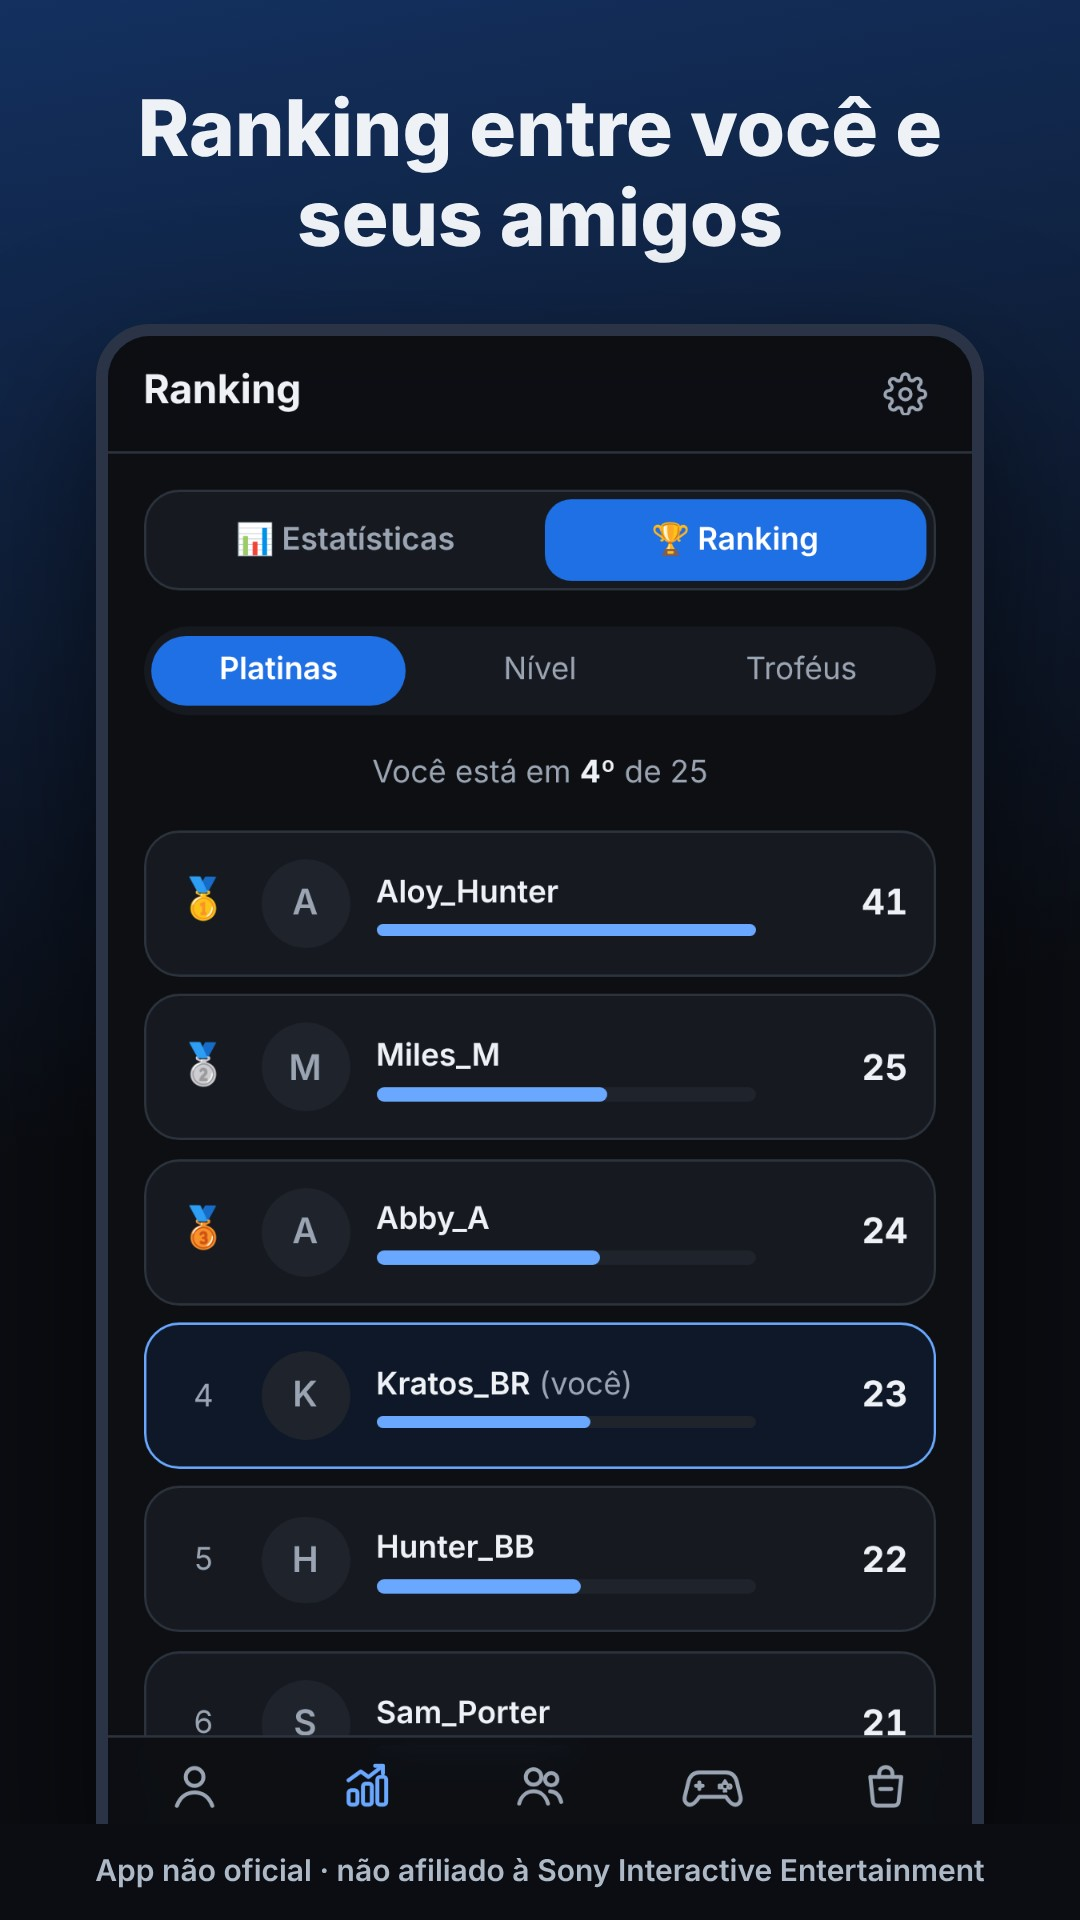
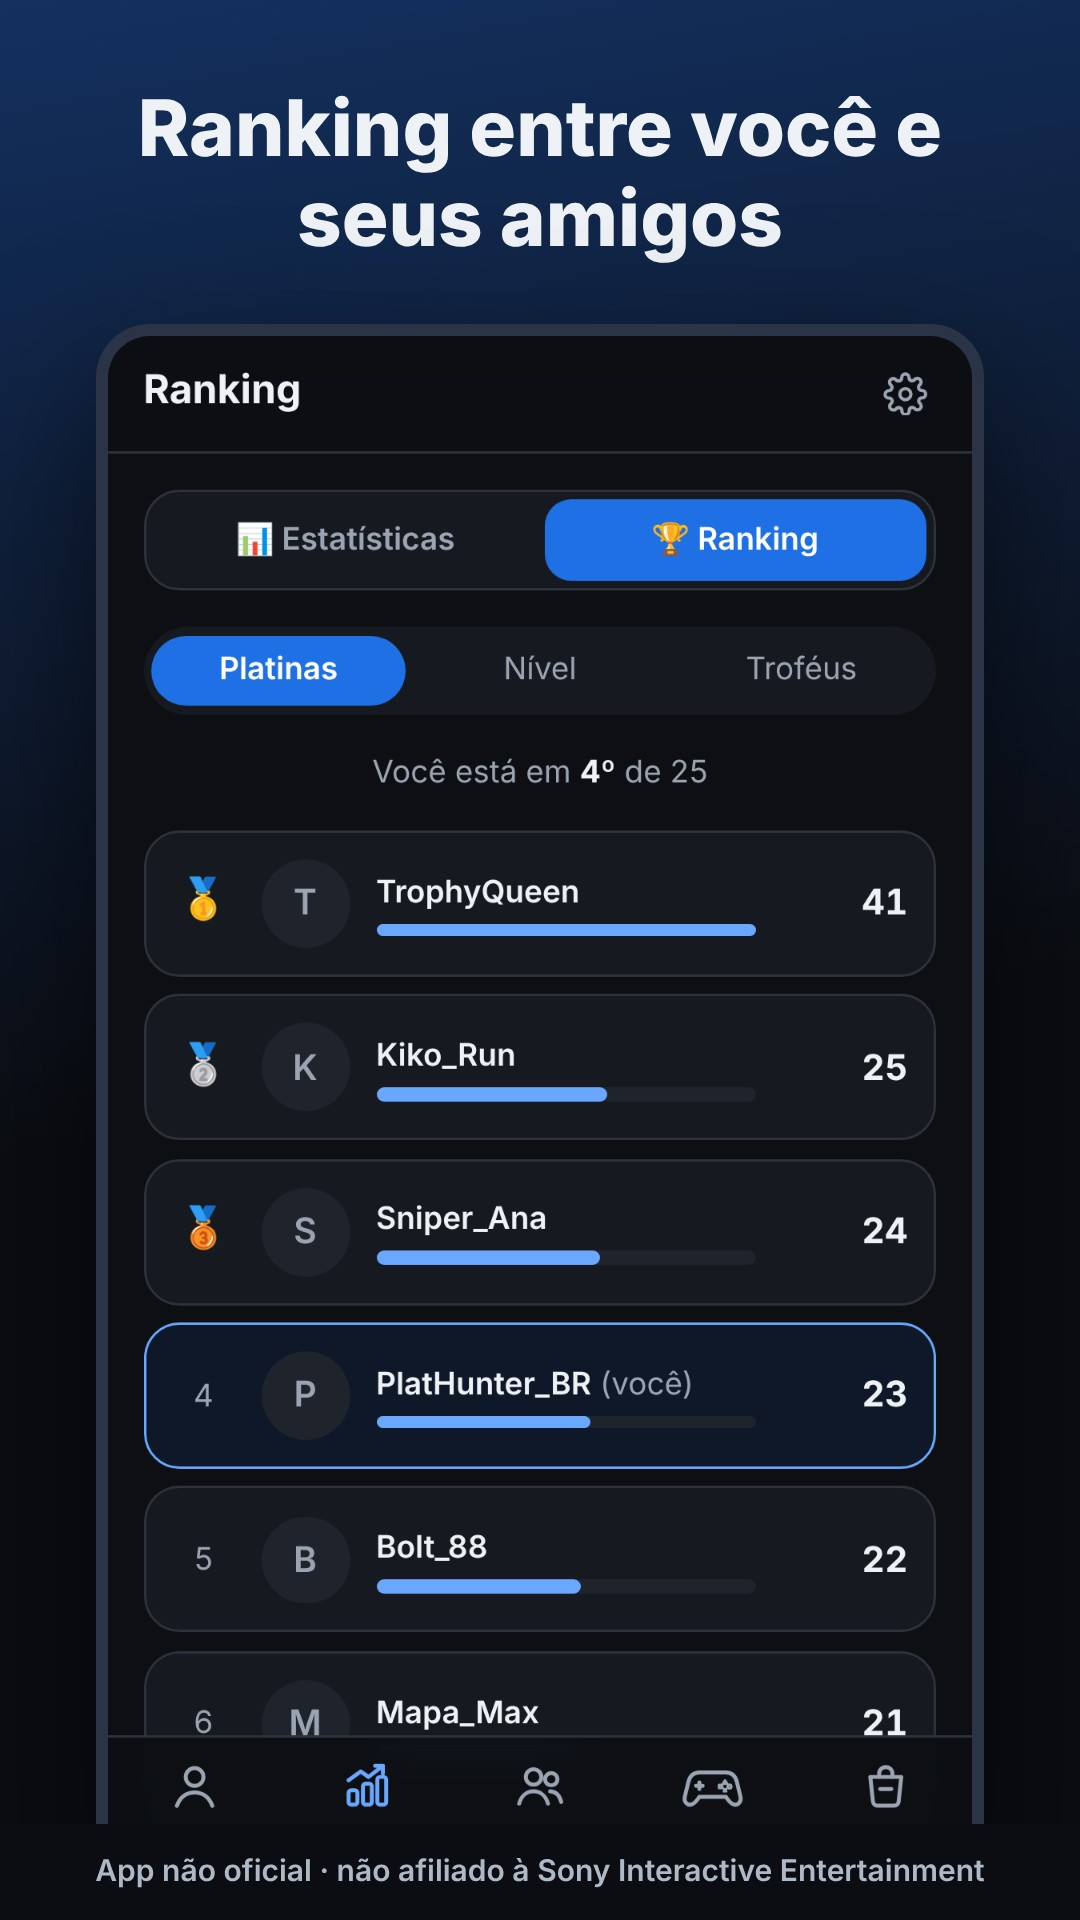
Segurança das contas e dados de demonstração sem personagens da Sony
Segurança:
- APK do GitHub em release, assinado com a chave secreta do app quando
  ANDROID_KEYSTORE_* existe (a chave de debug do repositório é pública e
  permitiria publicar uma falsa atualização com acesso ao login).
- Sem backup na nuvem nem transferência entre aparelhos dos dados do app
  (allowBackup=false e data_extraction_rules).
- Login da Sony só navega em domínios da Sony; o resto abre no navegador.
- FileProvider restrito à pasta da atualização baixada.
- Pedidos de boost mostram o nome confirmado pela PSN de quem enviou.
- Migração do Supabase: ninguém altera o próprio nome, contas sem perfil
  confirmado não veem perfis nem curtidas, limite de 30 pedidos de boost
  por hora.
- docs/seguranca.md com as proteções e os passos do dono do app.

Demonstração: nomes genéricos no lugar de personagens da Sony e capturas
da Play Store refeitas.

Claude-Session: https://claude.ai/code/session_017mpu5v6dnX2X2pzJxWtcg4

diff --git a/mobile/src/psn/demo.ts b/mobile/src/psn/demo.ts
@@ -8,16 +8,16 @@ const hoursAgo = (h: number) => new Date(Date.now() - h * 3_600_000).toISOString
 const counts = (platinum: number, gold: number, silver: number, bronze: number): Counts => ({ platinum, gold, silver, bronze });
 
 const PROFILES: Record<string, Profile> = {
-  me: { accountId: "demo-me", onlineId: "Kratos_BR", avatarUrl: "http://psn-rsc.prod.dl.playstation.net/psn-rsc/avatar/DEMO/kratos_l.png", aboutMe: "Caçador de platinas", isPlus: true, level: 412, levelProgress: 63, earned: counts(23, 180, 520, 1900) },
-  aloy: { accountId: "demo-aloy", onlineId: "Aloy_Hunter", avatarUrl: "http://psn-rsc.prod.dl.playstation.net/psn-rsc/avatar/DEMO/aloy_l.png", aboutMe: null, isPlus: true, level: 538, levelProgress: 12, earned: counts(41, 260, 700, 2500) },
-  ellie: { accountId: "demo-ellie", onlineId: "Ellie_TLOU", avatarUrl: "http://psn-rsc.prod.dl.playstation.net/psn-rsc/avatar/DEMO/ellie_l.png", aboutMe: null, isPlus: false, level: 233, levelProgress: 88, earned: counts(9, 70, 210, 800) },
+  me: { accountId: "demo-me", onlineId: "PlatHunter_BR", avatarUrl: "http://psn-rsc.prod.dl.playstation.net/psn-rsc/avatar/DEMO/player1_l.png", aboutMe: "Caçador de platinas", isPlus: true, level: 412, levelProgress: 63, earned: counts(23, 180, 520, 1900) },
+  aloy: { accountId: "demo-aloy", onlineId: "TrophyQueen", avatarUrl: "http://psn-rsc.prod.dl.playstation.net/psn-rsc/avatar/DEMO/player2_l.png", aboutMe: null, isPlus: true, level: 538, levelProgress: 12, earned: counts(41, 260, 700, 2500) },
+  ellie: { accountId: "demo-ellie", onlineId: "NightOwl_77", avatarUrl: "http://psn-rsc.prod.dl.playstation.net/psn-rsc/avatar/DEMO/player3_l.png", aboutMe: null, isPlus: false, level: 233, levelProgress: 88, earned: counts(9, 70, 210, 800) },
 };
 
 // Mais amigos de exemplo, para a lista completa (alguns com troféus privados).
 const EXTRA_NAMES = [
-  "Nathan_Drake", "Jin_Sakai", "Peter_P", "Joel_M", "Ratchet_L", "Sackboy", "Astro_Fan", "Nariko_HS",
-  "Cole_MacGrath", "Sly_Cooper", "Kat_Gravity", "Deacon_StJ", "Selene_R", "Sam_Porter", "Hunter_BB", "Abby_A",
-  "Miles_M", "Kiryu_K", "Leon_SK", "Jill_V", "Dante_DMC", "Cloud_S",
+  "Nitro_Rex", "PixelWolf", "Lobo_Gamer", "Cacador_99", "SilverFox", "Rush_BR", "Mestre_Bronze", "GoldRush",
+  "Neon_Kat", "Shadow_Fox", "Zeca_Play", "Turbo_Lu", "Vega_Star", "Mapa_Max", "Bolt_88", "Sniper_Ana",
+  "Kiko_Run", "Tank_Leo", "Raio_Jo", "Duda_GG", "Max_Combo", "Nuvem_S",
 ];
 EXTRA_NAMES.forEach((onlineId, i) => {
   const level = 50 + ((i * 37) % 600);
@@ -174,7 +174,7 @@ export function createDemoClient(): PsnClient {
     me: () => delay(PROFILES.me),
     profile: (accountId) => delay(PROFILES[keyOf(accountId)]),
     realName: (onlineId) =>
-      delay(({ Kratos_BR: "Kratos de Esparta", Aloy_Hunter: "Aloy Sobeck", Ellie_TLOU: "Ellie Williams" } as Record<string, string>)[onlineId] ?? null),
+      delay(({ PlatHunter_BR: "Rafael Lima", TrophyQueen: "Ana Souza", NightOwl_77: "Bia Costa" } as Record<string, string>)[onlineId] ?? null),
     titles: (accountId) => delay(titlesOf(keyOf(accountId))),
     recentTitles: (accountId) => delay(titlesOf(keyOf(accountId))),
     playedGames: (accountId) => delay(playedOf(keyOf(accountId))),

diff --git a/mobile/src/lib/cloud.ts b/mobile/src/lib/cloud.ts
@@ -169,6 +169,8 @@ export interface CloudBoostRequest {
   payload: Record<string, unknown>;
   status: "novo" | "aceito" | "recusado";
   created_at: string;
+  /** Nome na PSN de quem enviou, confirmado pelo servidor (não o que veio no pedido). */
+  from_online_id?: string | null;
 }
 
 /** Envia o pedido para amigos que usam o app. */
@@ -185,8 +187,14 @@ export async function sendBoostRequests(toAccountIds: string[], payload: Record<
 export async function myBoostRequests(): Promise<{ received: CloudBoostRequest[]; sent: CloudBoostRequest[] }> {
   const me = await cloudIdentity();
   if (!me) return { received: [], sent: [] };
-  const { data } = await cloud().from("boost_requests").select("*").order("created_at", { ascending: false }).limit(100);
-  const list = (data ?? []) as CloudBoostRequest[];
+  const { data } = await cloud()
+    .from("boost_requests")
+    .select("*, sender:profiles!boost_requests_from_account_id_fkey(online_id)")
+    .order("created_at", { ascending: false })
+    .limit(100);
+  const list = ((data ?? []) as (CloudBoostRequest & { sender?: { online_id: string } | null })[]).map(
+    ({ sender, ...r }) => ({ ...r, from_online_id: sender?.online_id ?? null }),
+  );
   return {
     received: list.filter((r) => r.to_account_id === me.accountId),
     sent: list.filter((r) => r.from_account_id === me.accountId),

diff --git a/mobile/src/lib/boostInbox.ts b/mobile/src/lib/boostInbox.ts
@@ -155,7 +155,9 @@ export async function syncCloudInbox(now = new Date()): Promise<ReceivedBoost[]>
     added.push({
       id: `cloud:${r.id}`,
       cloudId: r.id,
-      from: String(p.from ?? ""),
+      // O nome vem do perfil confirmado pela PSN, não do texto do pedido (que
+      // quem envia poderia trocar para se passar por um amigo).
+      from: r.from_online_id ?? String(p.from ?? ""),
       game: { id: String(p.game.id ?? ""), name: String(p.game.name), platform: String(p.game.platform ?? ""), iconUrl: null },
       trophies: Array.isArray(p.trophies) ? p.trophies.map(String) : [],
       players: Number(p.players) || 1,

diff --git a/mobile/tests/release12.test.ts b/mobile/tests/release12.test.ts
@@ -54,4 +54,11 @@ describe("pedidos de boost online", () => {
     expect(await syncCloudInbox()).toHaveLength(0);
     expect(getInbox()).toHaveLength(0);
   });
+
+  it("o nome de quem pediu vem do perfil confirmado, não do texto do pedido", async () => {
+    const req = { id: "c2", status: "novo", created_at: "2026-10-18T10:00:00Z", from_online_id: "Golpista_99", payload: { from: "MeuAmigo", game: { name: "Helldivers 2" } } };
+    received.mockReturnValue([req]);
+    const [added] = await syncCloudInbox();
+    expect(added.from).toBe("Golpista_99");
+  });
 });

diff --git a/android/app/src/main/java/com/hellisonvidal/perseus/PsnLoginActivity.java b/android/app/src/main/java/com/hellisonvidal/perseus/PsnLoginActivity.java
@@ -4,6 +4,7 @@ import android.annotation.SuppressLint;
 import android.content.Intent;
 import android.graphics.Color;
 import android.graphics.Bitmap;
+import android.net.Uri;
 import android.os.Build;
 import android.os.Bundle;
 import android.os.Handler;
@@ -95,7 +96,14 @@ public class PsnLoginActivity extends AppCompatActivity {
         webView.setWebViewClient(new WebViewClient() {
             @Override
             public boolean shouldOverrideUrlLoading(WebView view, WebResourceRequest request) {
-                return handleRedirect(request.getUrl().toString());
+                if (handleRedirect(request.getUrl().toString())) return true;
+                // A tela de login só navega nas páginas da Sony; qualquer outro
+                // endereço abre no navegador, fora da tela onde se digita a senha.
+                if (request.isForMainFrame() && !isSonyPage(request.getUrl())) {
+                    openOutside(request.getUrl());
+                    return true;
+                }
+                return false;
             }
 
             @Override
@@ -117,6 +125,29 @@ public class PsnLoginActivity extends AppCompatActivity {
         webView.loadUrl(PsnLoginPlugin.AUTHORIZE_URL);
         handler.post(poll);
         handler.postDelayed(reveal, REVEAL_TIMEOUT_MS);
+    }
+
+    /** Domínios da Sony usados no login (inclui "Esqueci a senha" e verificação em duas etapas). */
+    private static final String[] SONY_DOMAINS = {
+        "sony.com", "playstation.com", "playstation.net", "sonyentertainmentnetwork.com"
+    };
+
+    static boolean isSonyPage(Uri uri) {
+        String host = uri.getHost();
+        if (!"https".equals(uri.getScheme()) || host == null) return false;
+        host = host.toLowerCase(java.util.Locale.ROOT);
+        for (String domain : SONY_DOMAINS) {
+            if (host.equals(domain) || host.endsWith("." + domain)) return true;
+        }
+        return false;
+    }
+
+    private void openOutside(Uri uri) {
+        if (!"https".equals(uri.getScheme())) return;
+        try {
+            startActivity(new Intent(Intent.ACTION_VIEW, uri).addCategory(Intent.CATEGORY_BROWSABLE));
+        } catch (RuntimeException ignored) {
+        }
     }
 
     /** Captura o redirect final da Sony com o código OAuth. */

diff --git a/docs/seguranca.md b/docs/seguranca.md
@@ -1,0 +1,26 @@
+# Segurança do Plathunt
+
+As contas da PSN guardam jogos comprados, então o objetivo é que **nada que
+dê acesso à conta saia do celular** e que o servidor dos recursos online só
+deixe cada jogador agir em nome próprio.
+
+## Como a conta fica protegida
+
+| Risco | Proteção |
+| --- | --- |
+| Roubo da senha | O app nunca vê a senha: o login é na página da Sony (`PsnLoginActivity`), que só navega em domínios da Sony; qualquer outro endereço abre no navegador. |
+| Falsa atualização que lê o login | APK do GitHub e AAB da Play Store em **release**, assinados com a **chave secreta** (segredos `ANDROID_KEYSTORE_*`). A chave de debug do repositório é pública e só serve para testes. |
+| Cópia dos tokens por backup ou USB | `allowBackup="false"` e `data_extraction_rules.xml` (nada vai para a nuvem nem para outro celular); builds de release não são depuráveis. |
+| Arquivos expostos a outros apps | O FileProvider só entrega a pasta da atualização baixada (`cache/updates`). |
+| Atualização adulterada | O app só baixa atualizações das Releases do GitHub (lista de endereços conferida a cada redirecionamento) e o Android confere a assinatura. |
+| Alguém se passar por outro jogador | A função `psn-login` confirma o accountId com a própria Sony antes de criar a sessão. As regras do banco (RLS) só deixam criar curtidas e pedidos em nome próprio, e o nome exibido vem do perfil confirmado pela PSN. |
+| Contas criadas fora do app | Sem perfil confirmado pela PSN, uma conta não vê perfis nem curtidas. |
+| Spam de pedidos de boost | Limite de 30 pedidos por hora por jogador (gatilho no banco). |
+| Muitos acessos ao mesmo tempo | Cada usuário tem a própria sessão e as regras valem linha a linha no banco: um jogador nunca lê nem altera dados de outro, mesmo com muitos usando o app juntos. |
+
+## O que você precisa fazer (uma vez)
+
+1. **Cadastrar a chave do app** nos segredos do GitHub (passo a passo em `docs/play-store.md`). Até lá, o APK continua saindo com a chave pública de testes e o build mostra um aviso.
+2. **Aplicar a migração de segurança** `supabase/migrations/20261018230000_security.sql` no Supabase: no painel, **SQL Editor → New query**, cole o arquivo e rode (ou peça para o Claude aplicar com a sua aprovação).
+3. **Supabase → Authentication → Sign In / Providers → Email:** desligue **Allow new users to sign up**. O app cria as contas pelo servidor (função `psn-login`), então nada quebra; isso impede contas criadas por fora.
+4. **Avisar quem já usa o APK do GitHub:** a primeira versão assinada com a chave nova não instala por cima da antiga (assinatura diferente). É preciso desinstalar uma vez e instalar a nova; o login é refeito.

diff --git a/docs/privacidade.md b/docs/privacidade.md
@@ -2,7 +2,7 @@
 
 > **App não oficial.** O Plathunt não é afiliado, patrocinado nem aprovado pela Sony Interactive Entertainment. PlayStation e PSN são marcas da Sony.
 
-*Última atualização: 17 de outubro de 2026*
+*Última atualização: 18 de outubro de 2026*
 
 O Plathunt é um app independente, sem ligação com a Sony Interactive Entertainment. PlayStation é marca da Sony.
 
@@ -30,6 +30,13 @@ Os recursos online vêm ligados. Na primeira vez que você entra com a PSN, um a
 **Onde e por quanto tempo:** os dados ficam em um banco de dados Supabase hospedado em São Paulo (Brasil) e permanecem lá enquanto os recursos online estiverem em uso.
 
 **Como apagar:** desligar os recursos online desconecta o celular. Para apagar todos os seus dados do servidor, abra uma solicitação em <https://github.com/hellisonvidal/Trophy-Mania/issues>, que eles serão removidos.
+
+## Segurança
+
+- **Sua senha da PSN nunca passa pelo app:** o login é feito na própria página da Sony; o app recebe só os tokens da sessão.
+- **Os tokens ficam só neste celular:** não entram no backup na nuvem nem na transferência para outro aparelho.
+- **App assinado com chave própria:** o Android só aceita atualizações assinadas com a mesma chave secreta, então ninguém consegue instalar uma versão falsa por cima do app para ler o seu login.
+- **Servidor com regras por usuário:** cada pessoa só cria curtidas e pedidos em nome próprio, e os nomes exibidos vêm da PSN (ninguém troca o próprio nome para se passar por outro jogador).
 
 ## Notificações
 

diff --git a/README.md b/README.md
@@ -2,6 +2,8 @@
 
 > **App não oficial.** O Plathunt não é afiliado, patrocinado nem aprovado pela Sony Interactive Entertainment. PlayStation, PSN e os símbolos dos botões são marcas da Sony.
 
+Segurança das contas: veja [docs/seguranca.md](docs/seguranca.md).
+
 Gerenciador de troféus da PlayStation: acompanhe seus troféus e veja as conquistas dos seus amigos da PSN.
 
 O repositório tem duas versões:
